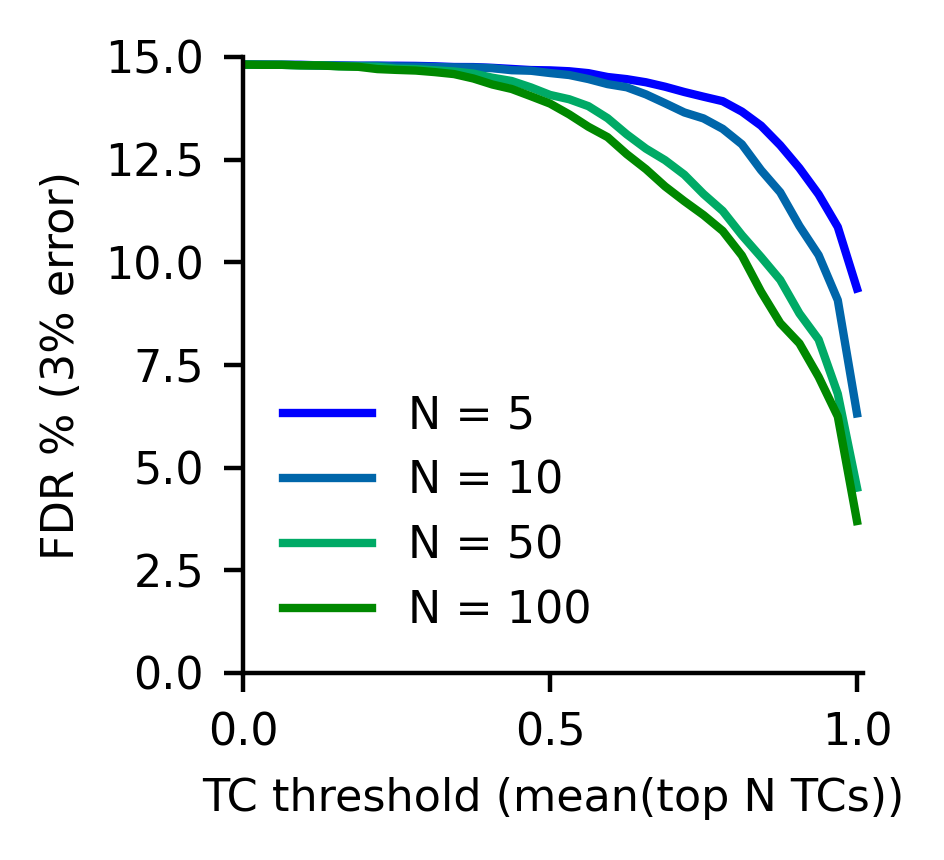
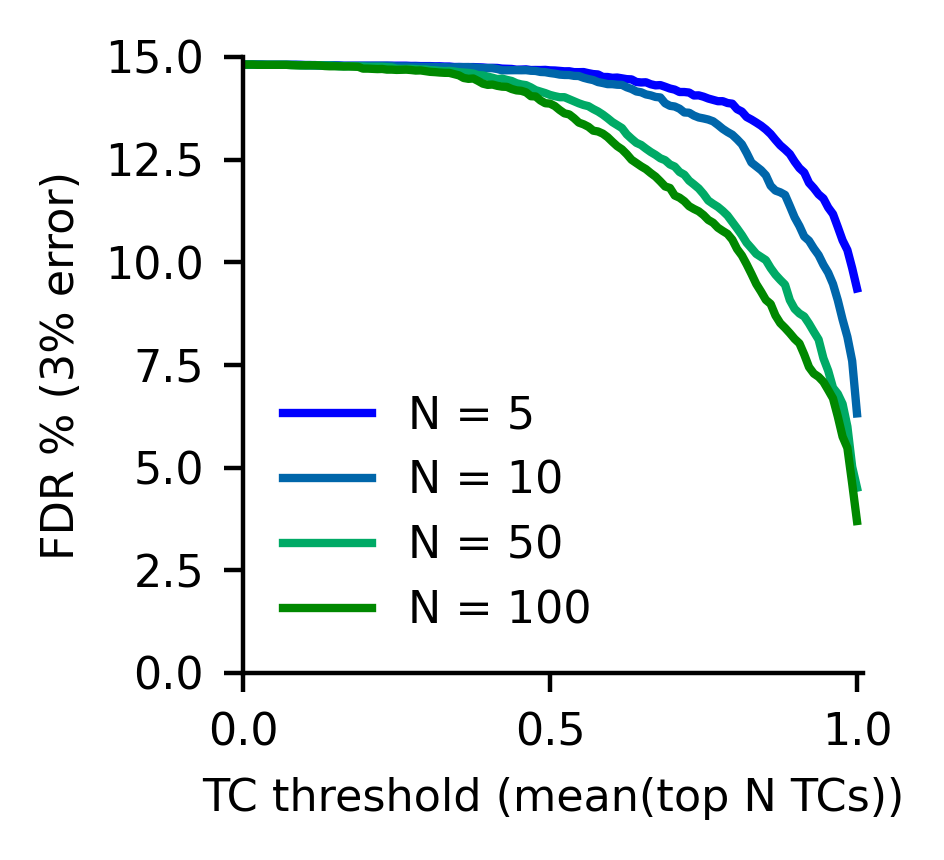
added recall, accuracy calculations to the fingerprint analysis

diff --git a/analysis/tc_fdr.py b/analysis/tc_fdr.py
@@ -22,7 +22,7 @@ percent_error = loadtxt('percent_error.npy')
 
 
 def fdr3(tcs):
-    tc_threshold = linspace(0, 1, 33)
+    tc_threshold = linspace(0, 1, 129)
     fdr = []
     for tct in tc_threshold:
         i_above_threshold = argwhere(tcs >= tct)
@@ -50,6 +50,79 @@ def plot_tc_fdr3(tc, fp_size,):
     plt.close()
 
 
+def recall3(tcs):
+    tc_threshold = linspace(0, 1, 129)
+    rec = []
+    for tct in tc_threshold:
+        i_above_threshold = argwhere(tcs >= tct)
+        i_below_threshold = argwhere(tcs < tct)
+        pe_above = percent_error[i_above_threshold]
+        pe_below = percent_error[i_below_threshold]
+        tp = count_nonzero(pe_above <= 3)
+        fn = count_nonzero(pe_below <= 3)
+        rec.append(100. * float(tp) / float(fn + tp))
+    return tc_threshold, array(rec)
+
+
+def plot_tc_recall3(tc, fp_size,):
+    fig = plt.figure(figsize=(2, 2))
+    ax = fig.add_subplot(111)
+    for top_n, c in zip([5, 10, 50, 100], ['#0000FF', '#0066AA', '#00AA66', '#008800']):
+        recall3_ = recall3(top_n_tc(tc, top_n))
+        ax.plot(*recall3_, '-', c=c, lw=1.5, label='N = {}'.format(top_n))
+    for d in ['top', 'right']:
+        ax.spines[d].set_visible(False)
+    ax.legend(frameon=False)
+    #ax.set_ylim([0, 15])
+    ax.set_xlim([0, 1.01])
+    ax.set_xlabel('TC threshold (mean(top N TCs))')
+    ax.set_ylabel('recall % (3% error)')
+    plt.savefig('fp{:04d}_recall3.png'.format(fp_size), dpi=400, bbox_inches='tight')
+    plt.close()
+
+
+def acc3(tcs):
+    tc_threshold = linspace(0, 1, 129)
+    acc = []
+    for tct in tc_threshold:
+        i_above_threshold = argwhere(tcs >= tct)
+        i_below_threshold = argwhere(tcs < tct)
+        pe_above = percent_error[i_above_threshold]
+        pe_below = percent_error[i_below_threshold]
+        tp = count_nonzero(pe_above <= 3)
+        tn = count_nonzero(pe_below > 3)
+        fp = count_nonzero(pe_above > 3)
+        fn = count_nonzero(pe_below <= 3)
+        acc.append(100. * float(tp + tn) / float(tp + tn + fp + fn))
+    return tc_threshold, array(acc)
+
+
+def plot_tc_acc3(tc, fp_size,):
+    fig = plt.figure(figsize=(2, 2))
+    ax = fig.add_subplot(111)
+    for top_n, c in zip([5, 10, 50, 100], ['#0000FF', '#0066AA', '#00AA66', '#008800']):
+        acc3_ = acc3(top_n_tc(tc, top_n))
+        ax.plot(*acc3_, '-', c=c, lw=1.5, label='N = {}'.format(top_n))
+    for d in ['top', 'right']:
+        ax.spines[d].set_visible(False)
+    ax.legend(frameon=False)
+    #ax.set_ylim([0, 15])
+    ax.set_xlim([0, 1.01])
+    ax.set_xlabel('TC threshold (mean(top N TCs))')
+    ax.set_ylabel('accuracy % (3% error)')
+    plt.savefig('fp{:04d}_acc3.png'.format(fp_size), dpi=400, bbox_inches='tight')
+    plt.close()
+
+
 plot_tc_fdr3(fp0512_tc, 512)
 plot_tc_fdr3(fp1024_tc, 1024)
 plot_tc_fdr3(fp2048_tc, 2048)
+
+plot_tc_recall3(fp0512_tc, 512)
+plot_tc_recall3(fp1024_tc, 1024)
+plot_tc_recall3(fp2048_tc, 2048)
+
+plot_tc_acc3(fp0512_tc, 512)
+plot_tc_acc3(fp1024_tc, 1024)
+plot_tc_acc3(fp2048_tc, 2048)
+
